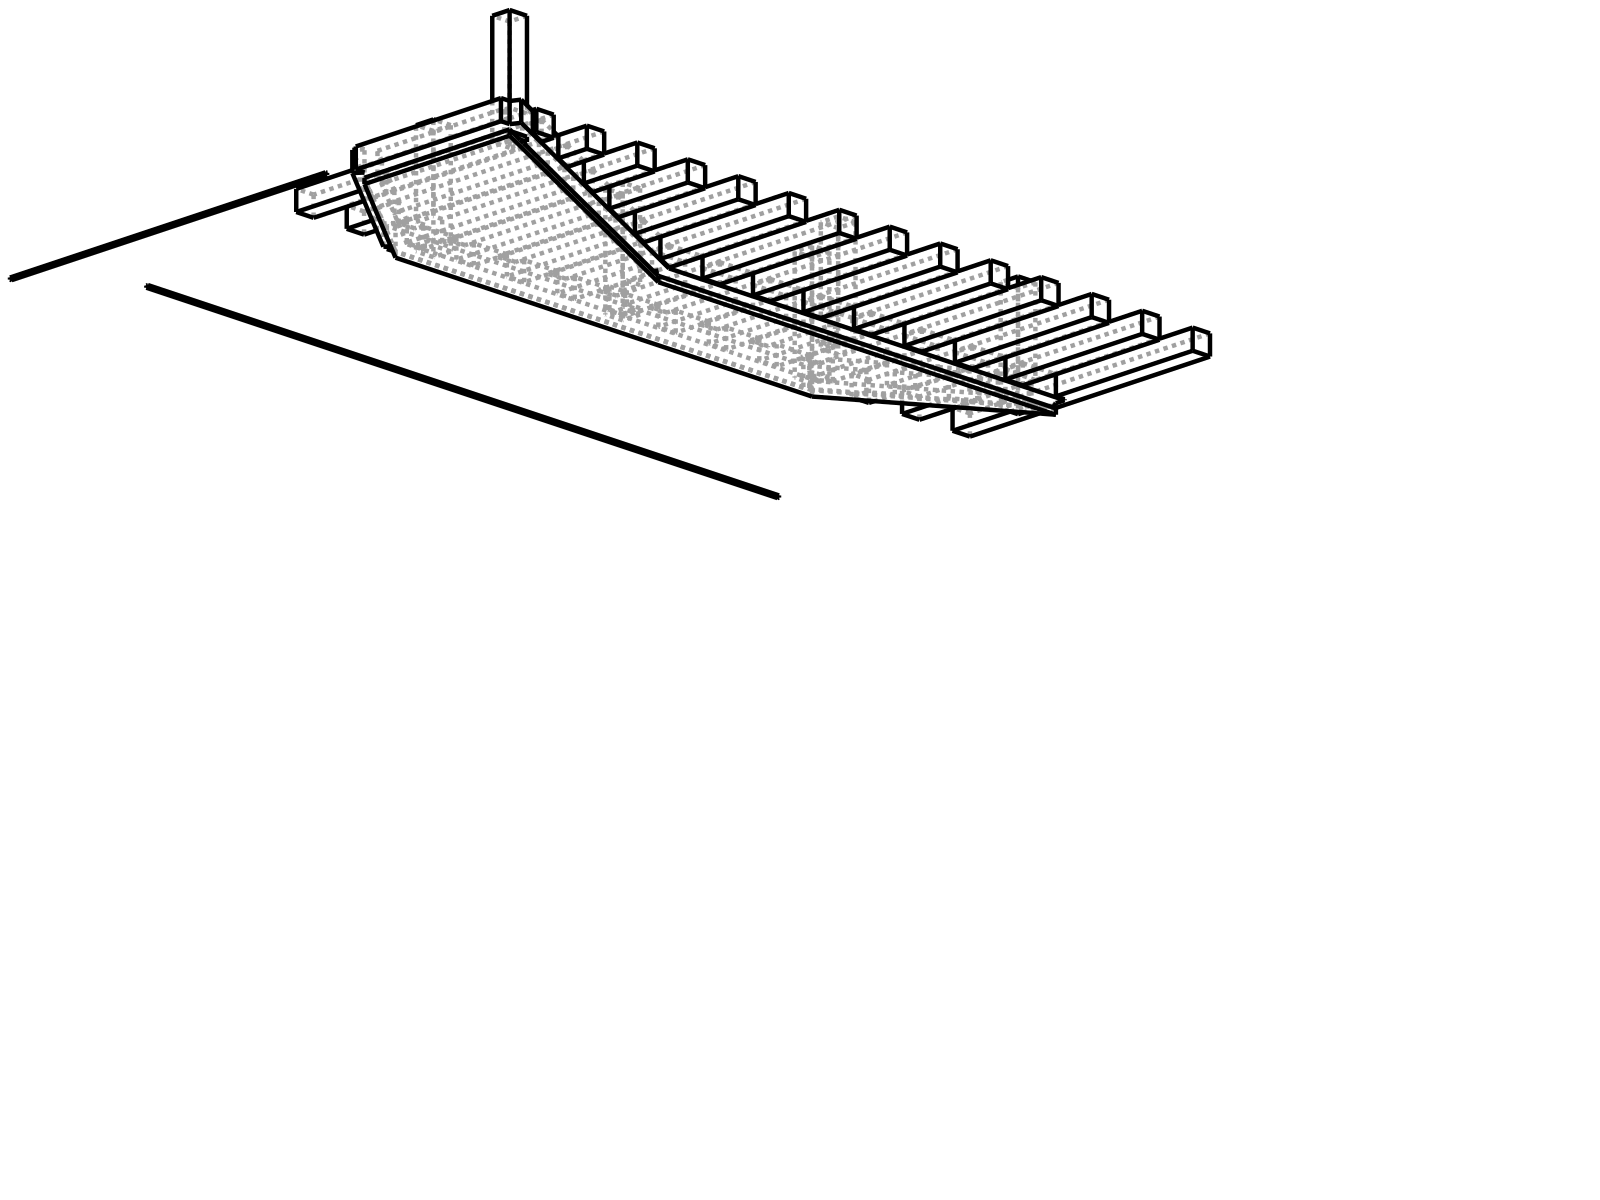
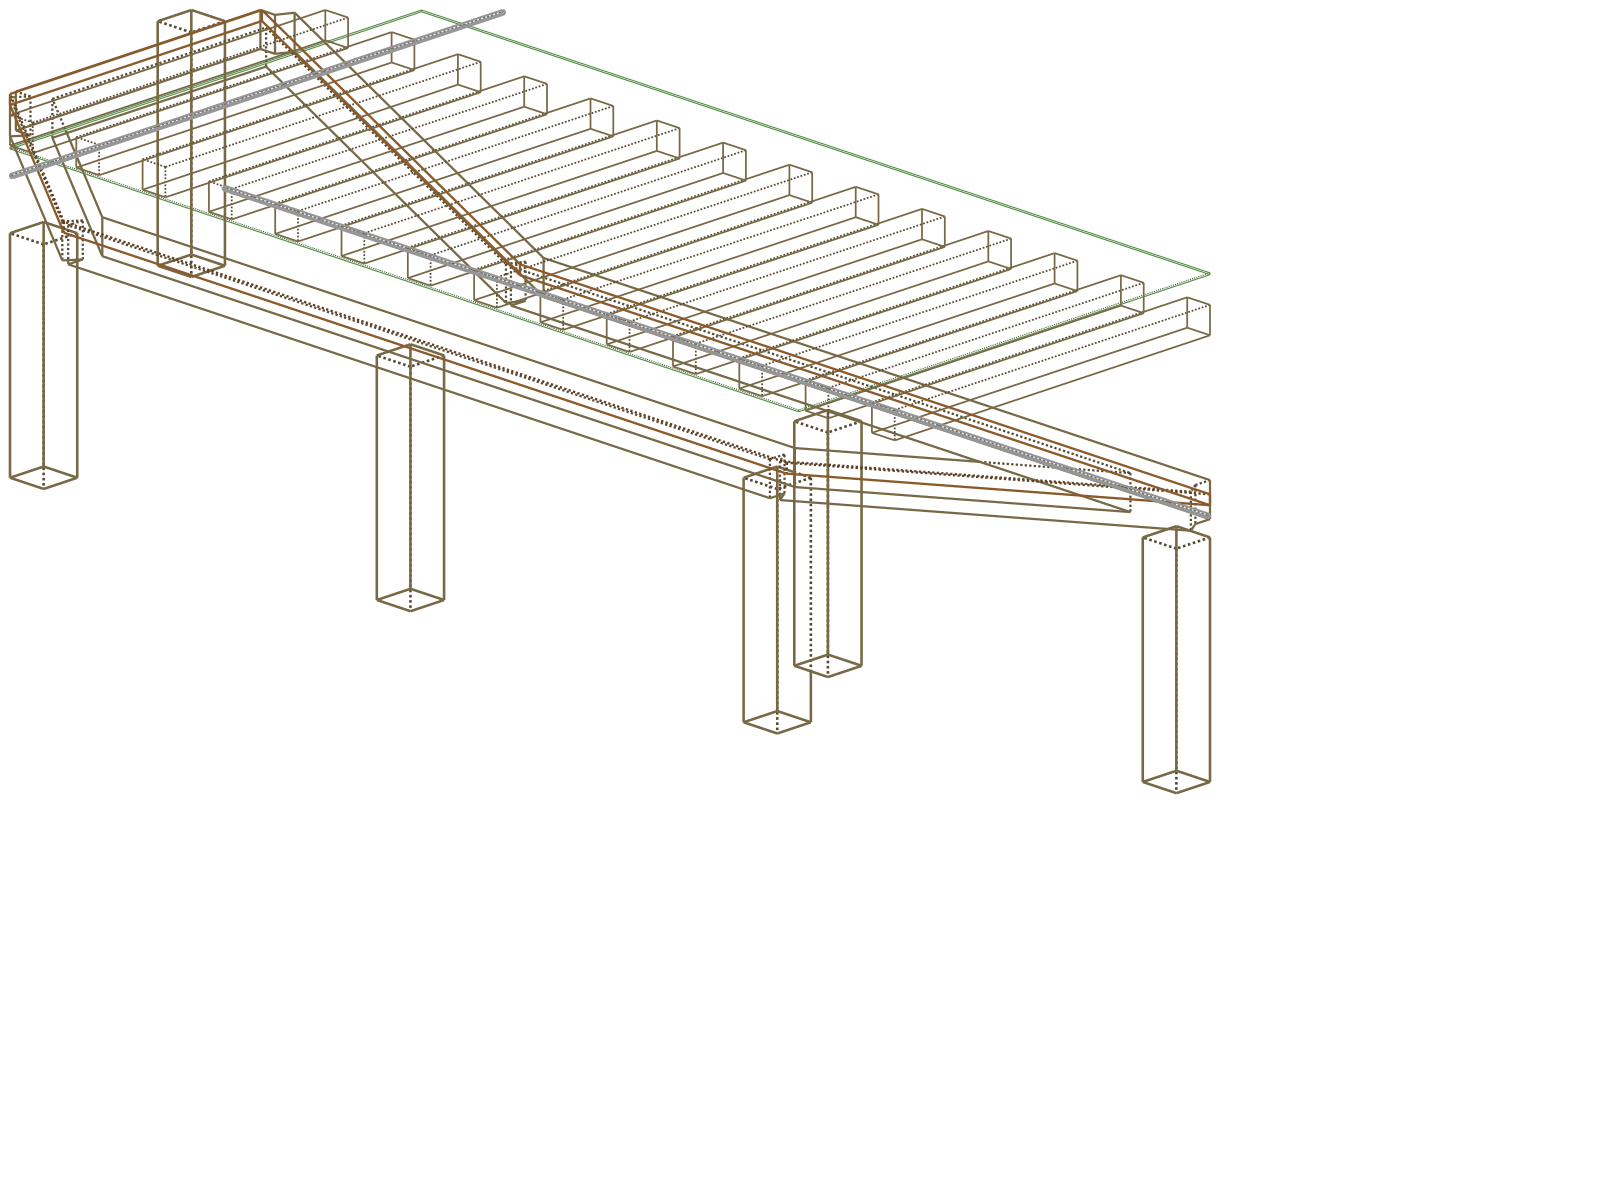
Improve platform deck render with colors and finer lines
- Add component-based color rendering to renderer.py
- Support rendering multiple components with different colors
- Use much finer stroke width (0.3 vs 1.0) for better readability
- Add realistic colors to platform deck example:
  * Wood brown for redwood deck boards
  * Greenish-brown for pressure-treated structural components
  * Grass green for ground plane
  * Gray for property reference lines
- Significantly improved visual clarity and professional appearance

Changed region(s): [[0.0, 0.0, 0.7812, 0.5858], [0.7188, 0.6167, 0.75, 0.6783], [0.4688, 0.5858, 0.5, 0.6167]]

diff --git a/src/cadlad_mcp/renderer.py b/src/cadlad_mcp/renderer.py
@@ -11,21 +11,26 @@ import cadquery as cq
 from PIL import Image, ImageDraw, ImageFont
 
 
-def render_to_png(result: Any, width: int = 800, height: int = 600, view_angle: tuple = (45, 45, 0)) -> bytes:
+def render_to_png(result: Any, width: int = 800, height: int = 600, view_angle: tuple = (45, 45, 0), components: dict = None) -> bytes:
     """Render a CadQuery object to PNG bytes using multiple rendering strategies.
 
     Args:
-        result: CadQuery Workplane or Shape object
+        result: CadQuery Workplane or Shape object (or dict of components)
         width: Image width in pixels
         height: Image height in pixels
         view_angle: Tuple of (rotation_x, rotation_y, rotation_z) in degrees
+        components: Optional dict mapping component names to (object, color) tuples
+                   where color is RGB tuple like (139, 90, 43) for brown
 
     Returns:
         PNG image as bytes
     """
     # Strategy 1: Try using CadQuery's exporters to SVG
     try:
-        return _render_via_svg(result, width, height)
+        if components:
+            return _render_components_via_svg(components, width, height)
+        else:
+            return _render_via_svg(result, width, height)
     except Exception as e:
         print(f"SVG rendering failed: {e}", flush=True)
         pass
@@ -42,7 +47,7 @@ def _render_via_svg(result: Any, width: int, height: int) -> bytes:
         svg_path = f.name
 
     try:
-        # Export to SVG
+        # Export to SVG with finer lines
         exporters.export(result, svg_path, opt={
             'width': width,
             'height': height,
@@ -50,7 +55,7 @@ def _render_via_svg(result: Any, width: int, height: int) -> bytes:
             'marginTop': 10,
             'showAxes': True,
             'projectionDir': (1, -1, 0.5),
-            'strokeWidth': 1,
+            'strokeWidth': 0.3,  # Much finer lines
             'strokeColor': (0, 0, 0),
             'hiddenColor': (160, 160, 160),
             'showHidden': True,
@@ -77,6 +82,75 @@ def _render_via_svg(result: Any, width: int, height: int) -> bytes:
     finally:
         if os.path.exists(svg_path):
             os.unlink(svg_path)
+
+
+def _render_components_via_svg(components: dict, width: int, height: int) -> bytes:
+    """Render multiple components with different colors by combining SVGs."""
+    from cadquery import exporters
+    import xml.etree.ElementTree as ET
+
+    svg_files = []
+    try:
+        # Render each component to its own SVG with specified color
+        for name, (obj, color) in components.items():
+            with tempfile.NamedTemporaryFile(suffix='.svg', delete=False, mode='w') as f:
+                svg_path = f.name
+                svg_files.append((svg_path, color))
+
+            # Export with component-specific color
+            exporters.export(obj, svg_path, opt={
+                'width': width,
+                'height': height,
+                'marginLeft': 10,
+                'marginTop': 10,
+                'showAxes': False,
+                'projectionDir': (1, -1, 0.5),
+                'strokeWidth': 0.3,  # Much finer lines
+                'strokeColor': color,
+                'hiddenColor': tuple(int(c * 0.7) for c in color),  # Darker version for hidden lines
+                'showHidden': True,
+            })
+
+        # Combine SVGs by merging their content
+        combined_svg = None
+        for svg_path, color in svg_files:
+            tree = ET.parse(svg_path)
+            root = tree.getroot()
+
+            if combined_svg is None:
+                combined_svg = root
+            else:
+                # Append all children from this SVG to the combined one
+                for child in root:
+                    combined_svg.append(child)
+
+        # Write combined SVG to temp file
+        with tempfile.NamedTemporaryFile(suffix='.svg', delete=False, mode='wb') as f:
+            combined_path = f.name
+            ET.ElementTree(combined_svg).write(f, encoding='utf-8', xml_declaration=True)
+
+        svg_files.append((combined_path, None))
+
+        # Convert combined SVG to PNG
+        try:
+            import cairosvg
+            png_bytes = cairosvg.svg2png(url=combined_path, output_width=width, output_height=height)
+            return png_bytes
+        except ImportError:
+            try:
+                from svglib.svglib import svg2rlg
+                from reportlab.graphics import renderPM
+                drawing = svg2rlg(combined_path)
+                png_bytes = renderPM.drawToString(drawing, fmt='PNG')
+                return png_bytes
+            except ImportError:
+                raise Exception("No SVG renderer available")
+
+    finally:
+        # Clean up all temp files
+        for svg_path, _ in svg_files:
+            if os.path.exists(svg_path):
+                os.unlink(svg_path)
 
 
 def _render_info_image(result: Any, width: int, height: int) -> bytes:

diff --git a/examples/platform_deck/render.py b/examples/platform_deck/render.py
@@ -1,21 +1,72 @@
 #!/usr/bin/env python3
-"""Generate PNG rendering of the platform deck model."""
+"""Generate PNG rendering of the platform deck model with colors."""
 
 import sys
 import os
 from pathlib import Path
+import cadquery as cq
 
 # Add src to path
 sys.path.insert(0, os.path.join(os.path.dirname(__file__), '..', '..', 'src'))
 
 from cadlad_mcp.renderer import render_to_png
 
-# Import the model
-exec(open(Path(__file__).parent / 'model.py').read())
+# Import the model (this creates separate component variables)
+# We need to modify the model to export components separately
+model_code = open(Path(__file__).parent / 'model.py').read()
+
+# Replace the final result line to keep components separate
+model_code = model_code.replace(
+    "# 7. Combine all components\nresult = deck_surface.union(posts).union(beams).union(joists)\nresult = result.union(north_ref_line).union(east_ref_line)",
+    "# 7. Keep components separate for colored rendering\npass"
+)
+
+exec(model_code)
+
+# Define colors for each component (RGB tuples)
+COLORS = {
+    'deck': (139, 90, 43),          # Wood brown (redwood)
+    'posts': (120, 105, 70),        # Pressure-treated wood (greenish-brown)
+    'beams': (120, 105, 70),        # Pressure-treated wood
+    'joists': (120, 105, 70),       # Pressure-treated wood
+    'references': (150, 150, 150),  # Light gray for property lines
+}
+
+# Add a ground plane for context
+min_x = min(p[0] for p in deck_points)
+max_x = max(p[0] for p in deck_points)
+min_y = min(p[1] for p in deck_points)
+max_y = max(p[1] for p in deck_points)
+
+# Create a larger ground plane with grass color
+ground_margin = 40
+ground_plane = (
+    cq.Workplane("XY")
+    .box(
+        max_x - min_x + ground_margin * 2,
+        max_y - min_y + ground_margin * 2,
+        0.5
+    )
+    .translate((
+        (max_x + min_x) / 2,
+        (max_y + min_y) / 2,
+        -0.25
+    ))
+)
+
+# Create component dictionary for colored rendering
+components = {
+    'ground': (ground_plane, (85, 140, 70)),     # Grass green
+    'posts': (posts, COLORS['posts']),
+    'beams': (beams, COLORS['beams']),
+    'joists': (joists, COLORS['joists']),
+    'deck': (deck_surface, COLORS['deck']),
+    'references': (north_ref_line.union(east_ref_line), COLORS['references']),
+}
 
 # Render to PNG with dimensions suitable for construction review
-print("\nRendering platform deck (isometric view)...")
-png_bytes = render_to_png(result, width=1600, height=1200)
+print("\nRendering platform deck with colors (isometric view)...")
+png_bytes = render_to_png(None, width=1600, height=1200, components=components)
 
 # Save PNG
 output_path = Path(__file__).parent / 'render.png'
